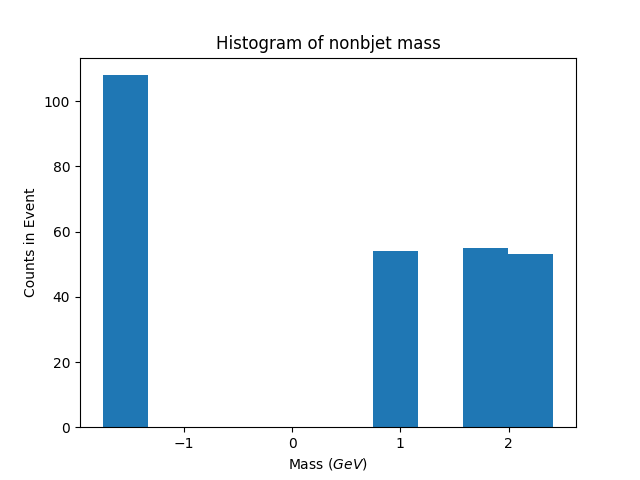
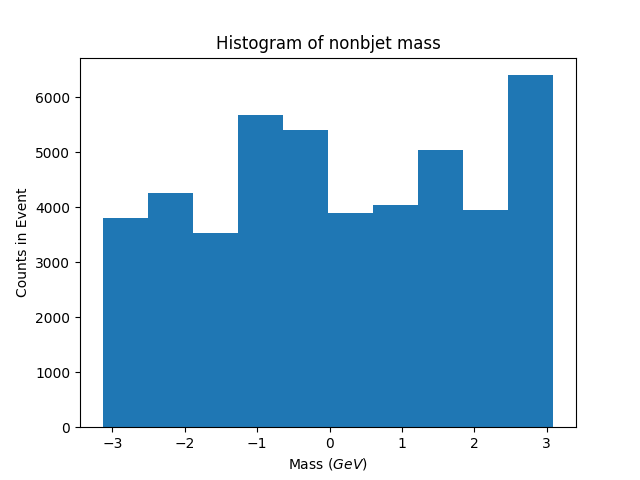
Aggregated data accross events

diff --git a/Examples/9. Higgs - WIP/data.py b/Examples/9. Higgs - WIP/data.py
@@ -110,11 +110,11 @@ def pythia_sim(cmd_file, part_name=""):
     # Only necessary for titling graphs.
     # Returns an array of 2D histograms, mapping eta, phi, with transverse
     # energy.
-    pythia      = Pythia(cmd_file, random_state=1)
-    events_data = []
-    bquarks     = []
-    bjets       = []
-    otherjets   = []
+    pythia                   = Pythia(cmd_file, random_state=1)
+    events_data_package      = event_hists()
+    bquarks                  = []
+    bjets                    = []
+    otherjets                = []
     for event in pythia(events=num_events):
         final_state_selection    = ((STATUS == 1)   & 
                                  ~HAS_END_VERTEX    &
@@ -126,10 +126,8 @@ def pythia_sim(cmd_file, part_name=""):
         jet_inputs               = event.all(final_state_selection)
         jet_sequence             = cluster(jet_inputs, ep=True, R=0.4, p=-1)
         jets                     = jet_sequence.inclusive_jets(ptmin=20)
-        event_data_package       = event_hists()
-        for jet in jets          : update_if_bjet(jet, bquarks, event_data_package)
-        events_data.append(event_data_package)
-    return events_data
+        for jet in jets          : update_if_bjet(jet, bquarks, events_data_package)
+    return events_data_package
 
 def shuffle_and_stich(A, B, X, Y):
     # A and B are both tensors which map to X and Y respectively
@@ -195,27 +193,23 @@ def structure_data_into_care_package(particle_data_list):
     
     # T_i is the training data / the input tensor
     # T_o is the expected value (closer to 1 is ttbar, closer to 0 is zz
-    T_i, T_o = shuffle_and_stich(ttbar_data, zz_data,
-                                 ttbar_mapping, zz_mapping)
+    T_i, T_o       = shuffle_and_stich(ttbar_data, zz_data,
+                                       ttbar_mapping, zz_mapping)
     Test_i, Test_o = shuffle_and_stich(ttbar_training, zz_training,
                                        ttbar_training_map, zz_training_map)
     care_package = np.array([T_i, T_o, Test_i, Test_o], dtype=object)
     return care_package
 
-def make_plots(data_pak):
-    #Aggregate_pak = event_hists()
-    for event_pak in data_pak:
-        event_pak.save_1d_hists()
+def make_plots(data_pak): data_pak.save_1d_hists()
 # -----------------------------------------------------------------------
 # Main process 
 # -----------------------------------------------------------------------
 while np.load(open("control", "rb")):
     # ttbar_tensor has indices of event, followed by eta, followed by phi.
     # The value of the h_tensor is the associated transverse energy.
-    higgs_ww_data    = pythia_sim('higgsww.cmnd', "higgsWW")
-    make_plots(higgs_ww_data)
-    higgs_zz_data    = pythia_sim('higgszz.cmnd', 'higgsZZ')
-    make_plots(higgs_zz_data)
-    care_package  = structure_data_into_care_package([ttbar_data, zz_data])
-    ship(care_package)
+    higgs_ww_data = pythia_sim('higgsww.cmnd', "higgsWW"); make_plots(higgs_ww_data)
+    higgs_zz_data = pythia_sim('higgszz.cmnd', 'higgsZZ'); make_plots(higgs_zz_data)
+    break
+    #care_package  = structure_data_into_care_package([ttbar_data, zz_data])
+    #ship(care_package)
 print("Data Generation Halted")
